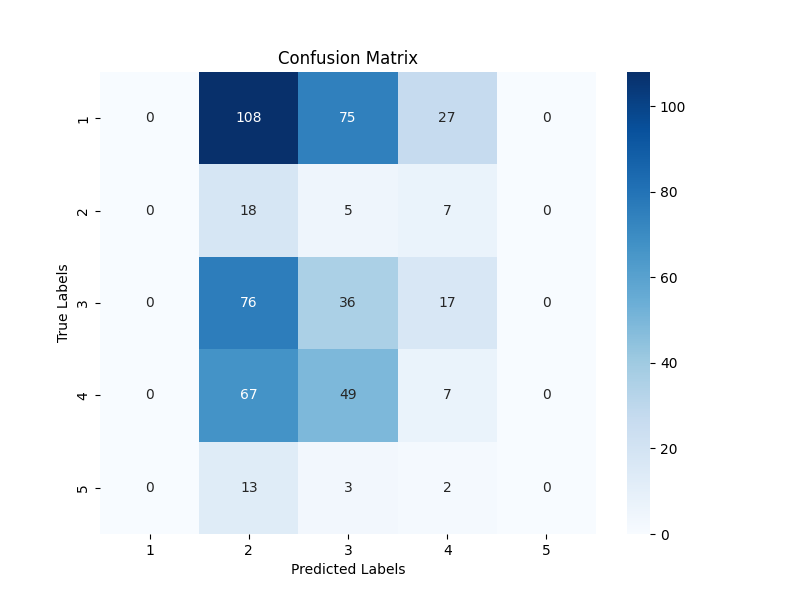
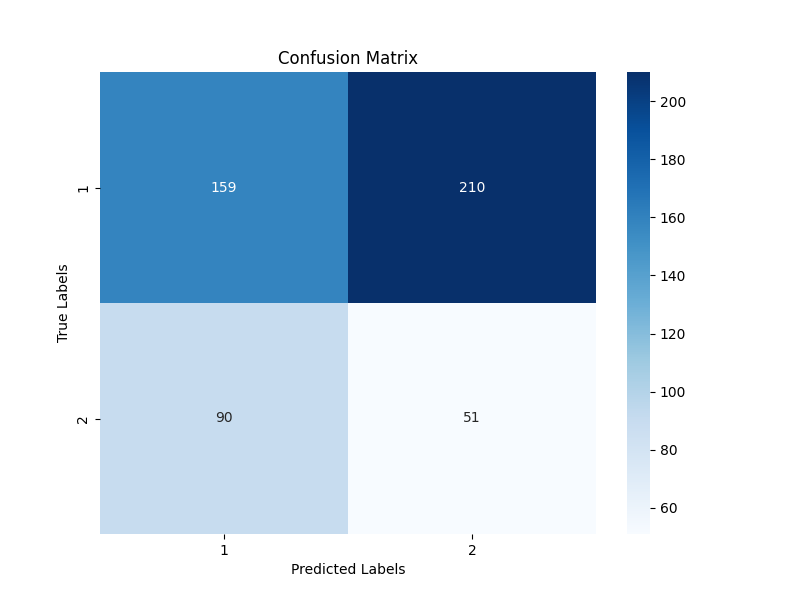
clubbed birads into two categories

diff --git a/03_evaluate_birads.py b/03_evaluate_birads.py
@@ -9,12 +9,17 @@ from sklearn.metrics import confusion_matrix
 
 # Define directories
 ground_truth_dir = "/mnt/data1/raiyan/breast_cancer/VLMs-for-Mammograms/GROUND-TRUTH-REPORTS"
-test_dir = "/mnt/data1/raiyan/breast_cancer/VLMs-for-Mammograms/evaluated/qwen_base"
+test_dir = "/mnt/data1/raiyan/breast_cancer/VLMs-for-Mammograms/evaluated/llava_base"
 
 
 # Lists to store BIRADS values
 ground_truth_birads = []
 test_birads = []
+
+def replace_values(lst):
+    return [1 if x in {1, 2, 3} else 2 if x in {4, 5, 6} else x for x in lst]
+
+
 
 # Get list of JSON files in ground-truth directory
 json_files = sorted(f for f in os.listdir(ground_truth_dir) if f.endswith(".json"))
@@ -33,6 +38,11 @@ for json_file in json_files:
     with open(test_path, "r") as test_file:
         test_data = json.load(test_file)
         test_birads.append(test_data.get("BIRADS"))  # Extract BIRADS value
+
+# clubbing birads into two categories
+ground_truth_birads = replace_values(ground_truth_birads)
+test_birads = replace_values(test_birads)
+# clubbing birads into two categories
 
 # Print the lists
 print("Ground Truth BIRADS:", ground_truth_birads)

diff --git a/test.py b/test.py
@@ -1,6 +1,7 @@
-for report in range(0, 509):
-        report_id = str(report).zfill(3) 
-        # query = 'image ID: ' + report_id
+def replace_values(lst):
+    return [1 if x in {1, 2, 3} else 2 if x in {4, 5, 6} else x for x in lst]
 
-        query =  'Process the report having the image ID: IMG'+  report_id+'.png'
-        print(query)
+# Example usage
+my_list = [0, 1, 2, 3, 4, 5, 6, 7, 8]
+new_list = replace_values(my_list)
+print(new_list)  # Output: [0, 1, 1, 1, 2, 2, 2, 7, 8]
